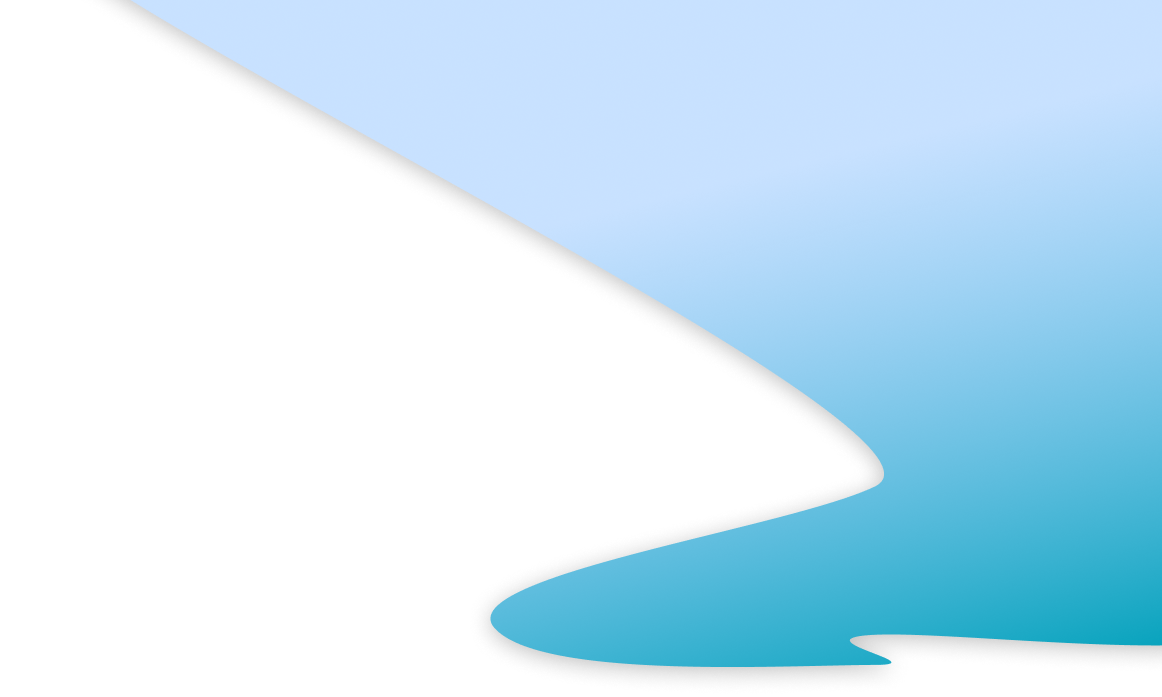
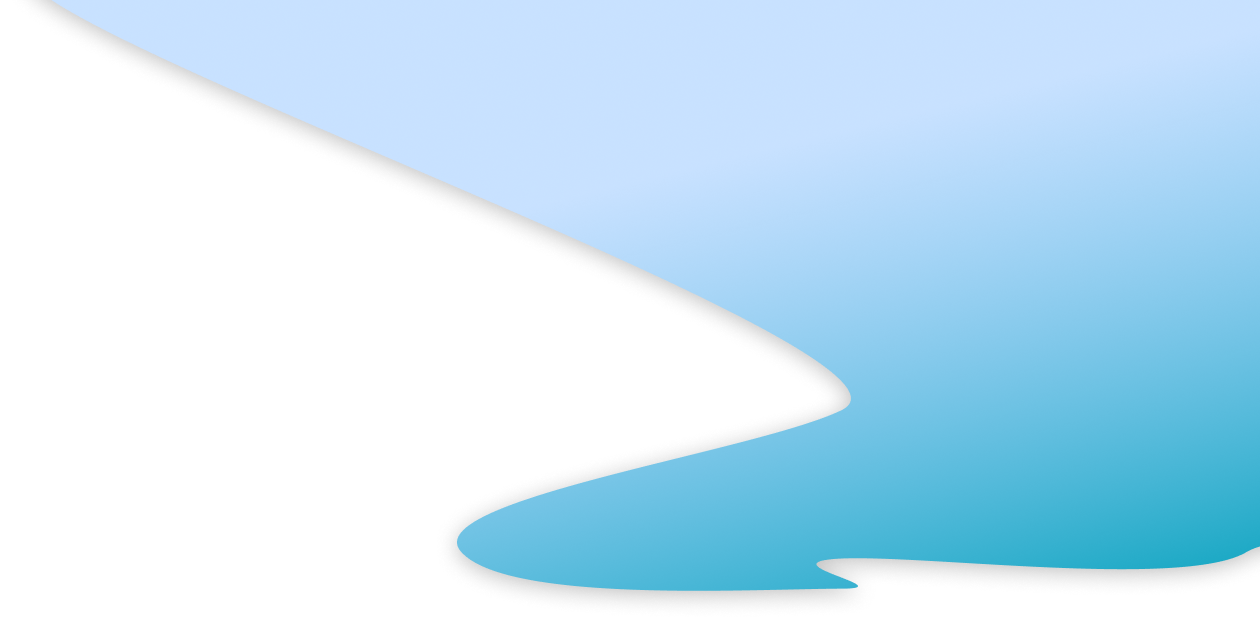
new bg

Changed region(s): [[0.031, 0.0, 0.7745, 0.95], [0.5577, 0.8887, 0.7745, 0.9806], [0.8985, 0.8581, 1.0, 0.95]]

diff --git a/src/pages/Homepage.jsx b/src/pages/Homepage.jsx
@@ -5,6 +5,9 @@ import Anim from '../../public/animate.png'
 import Movie from '../../public/movie.png'
 import Tv from '../../public/tv.png'
 import Trend from '../../public/trend.png'
+import Ig from '../../public/instagram.svg'
+import Lk from '../../public/linkedin.svg'
+import Fb from '../../public/facebook.svg'
 import { Link } from 'react-router-dom'
 
 function Homepage() {
@@ -36,7 +39,7 @@ function Homepage() {
       <div className="card-container">
         <div className="card">
           <h3>Movies</h3>
-          <img src={Movie} alt="" />
+          <img src={Movie}/>
           <p className='card-desc'>
             Here we Provide you with our movie lists based on our data base. Cli ck the button below to check out our movie lists.
           </p>
@@ -50,7 +53,7 @@ function Homepage() {
         </div>
         <div className="card">
           <h3>TV Shows</h3>
-          <img src={Tv} alt="" />
+          <img src={Tv} />
           <p className=''>
             Here we Provide you with our tv show lists based on our data base. Click the button below to check out our tv show lists.
           </p>
@@ -64,7 +67,7 @@ function Homepage() {
         </div>
         <div className="card">
           <h3>Trending</h3>
-          <img src={Trend} alt="" />
+          <img src={Trend} />
           <p className=''>
             Here we Provide you with our trending shows based on our data base. Click the button below to check out our trending shows.
           </p>
@@ -78,6 +81,16 @@ function Homepage() {
         </div>
       </div>
     </div>
+    <footer>
+      <div className='nama'>
+        <p>Rizz Movie</p>
+      </div>
+      <div className='icon'>
+        <img src={Ig} />
+        <img src={Lk} />
+        <img src={Fb} />
+      </div>
+    </footer>
    </>
   )
 }

diff --git a/src/styles/home.css b/src/styles/home.css
@@ -1,7 +1,7 @@
 body {
   max-width: 100vw;
   background: url(../../public/bg.png) no-repeat top right;
-  background-size: 50%;
+  background-size: 85%;
 }
 
 .judul-container {
@@ -64,7 +64,7 @@ body {
 .anim {
   display: flex;
   justify-content: center;
-  margin-top: 1.7em;
+  margin-top: 4.5em;
   margin-bottom: 4em;
 }
 
@@ -106,7 +106,6 @@ h2 {
 
 .card {
   display: flex;
-  /* justify-content: center; */
   flex-direction: column;
   padding: 1em 2em;
   background-color: rgb(254, 254, 254);
@@ -177,6 +176,10 @@ h2 {
 
 @media (min-width: 40em) {
   
+  body {
+    background-size: 60%;
+  }
+
   .judul-container {
     flex-direction: row;
     gap: 4em;
